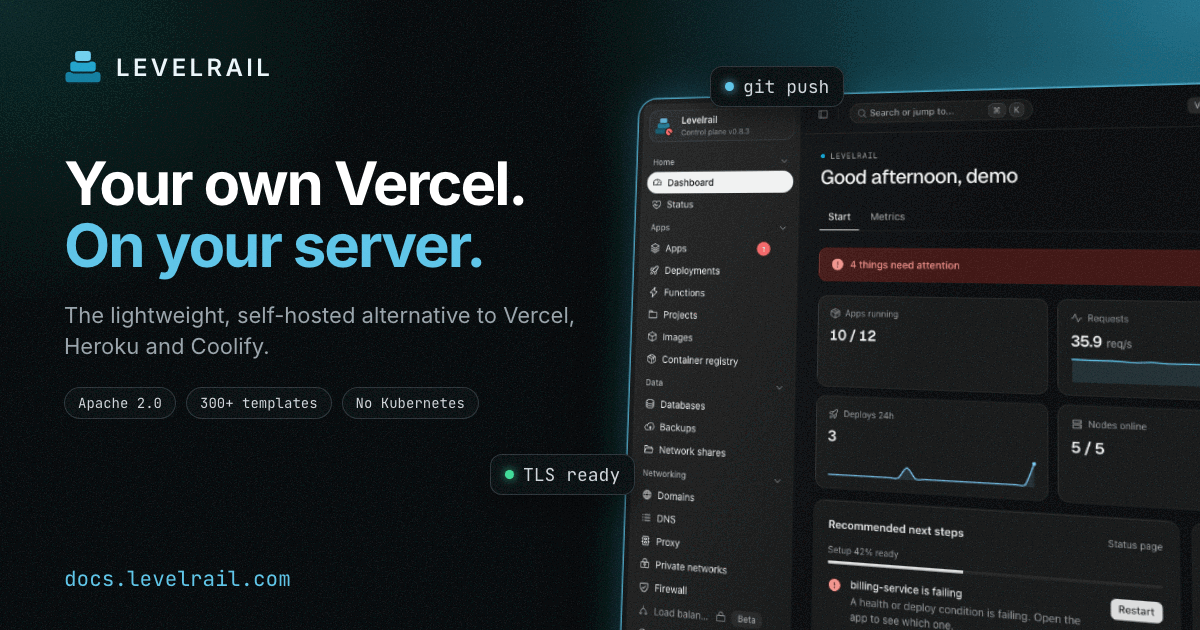
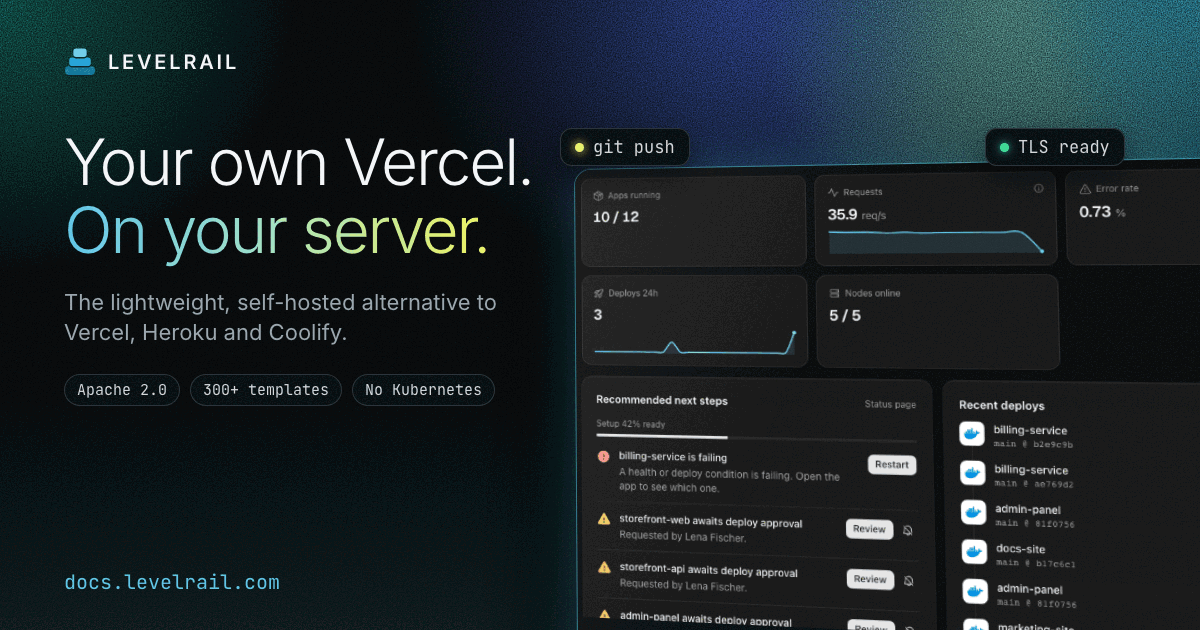
feat: roll the grainy glow card style out to every OG and social variant
og-home is now the dashboard card with an og-home-light twin; generate.mjs and OUT_DIR follow.

diff --git a/scripts/og/README.md b/scripts/og/README.md
@@ -13,14 +13,14 @@ Output goes to `docs/public/og/<slug>.png` (slashes become dashes), served at `<
 
 ## Social card renderer
 
-`node scripts/og/render.mjs [name ...]` renders brand and social images. `OUT_DIR=/some/dir` writes every output under that directory (same relative paths) instead of the repo, so test renders touch nothing tracked (the favicon .ico step still uses the repo).
+`node scripts/og/render.mjs [name ...]` renders brand and social images (all of them with no names). Every card shares one look: Inter 300 headline with a gradient accent line, grain-masked glows, a floor gradient, mono pills and the dashboard in a tilted glass frame. `OUT_DIR=/some/dir` writes everything under that directory (same relative paths) so test renders touch nothing tracked.
 
-- `og-home-iso`: dark 1200x630 hero card with the isometric scene, install command and grainy glows (grain-masked radial gradients). Output `docs/assets/og/og-home-iso.png`.
-- `og-home-iso-light`: light twin for README `<picture>` use. Output `docs/assets/og/og-home-iso-light.png`.
-- `og-home-dash`, `og-home-dash-light`: same look with the original copy ("Your own Vercel.") and the populated dashboard in a tilted glass frame (`dashboard-home.png` / `dashboard-home-light.png`, offset in the frame to crop the attention banner). Outputs `docs/assets/og/og-home-dash.png` and `og-home-dash-light.png`.
-- Scene source: `scripts/og/assets/iso-hero.svg`, a static copy of the site hero (resting state, token parked, no animation).
-- Review samples: `docs/assets/og/preview/`.
+- `og-home` / `og-home-light`: hero card, dark and light twin, written to `docs/assets/og-home.png` and `og-home-light.png` (light is for README `<picture>` use).
+- `og-home-iso` / `og-home-iso-light`: alternate card with the isometric scene and install command; scene source is `scripts/og/assets/iso-hero.svg`.
+- Other variants (`og-docs`, `og-install`, `github`, `square`, ...) keep their own copy and screenshot; see `COPY` and `VARIANTS` in `render.mjs`.
+- `generate.mjs` uses the same look for the per-page docs cards and honors `OUT_DIR` too.
 
 ```
-OUT_DIR=/tmp/og node scripts/og/render.mjs og-home-iso og-home-iso-light
+node scripts/og/render.mjs && node scripts/og/generate.mjs --all   # into the repo
+OUT_DIR=/tmp/og node scripts/og/render.mjs                         # scratch copy
 ```
